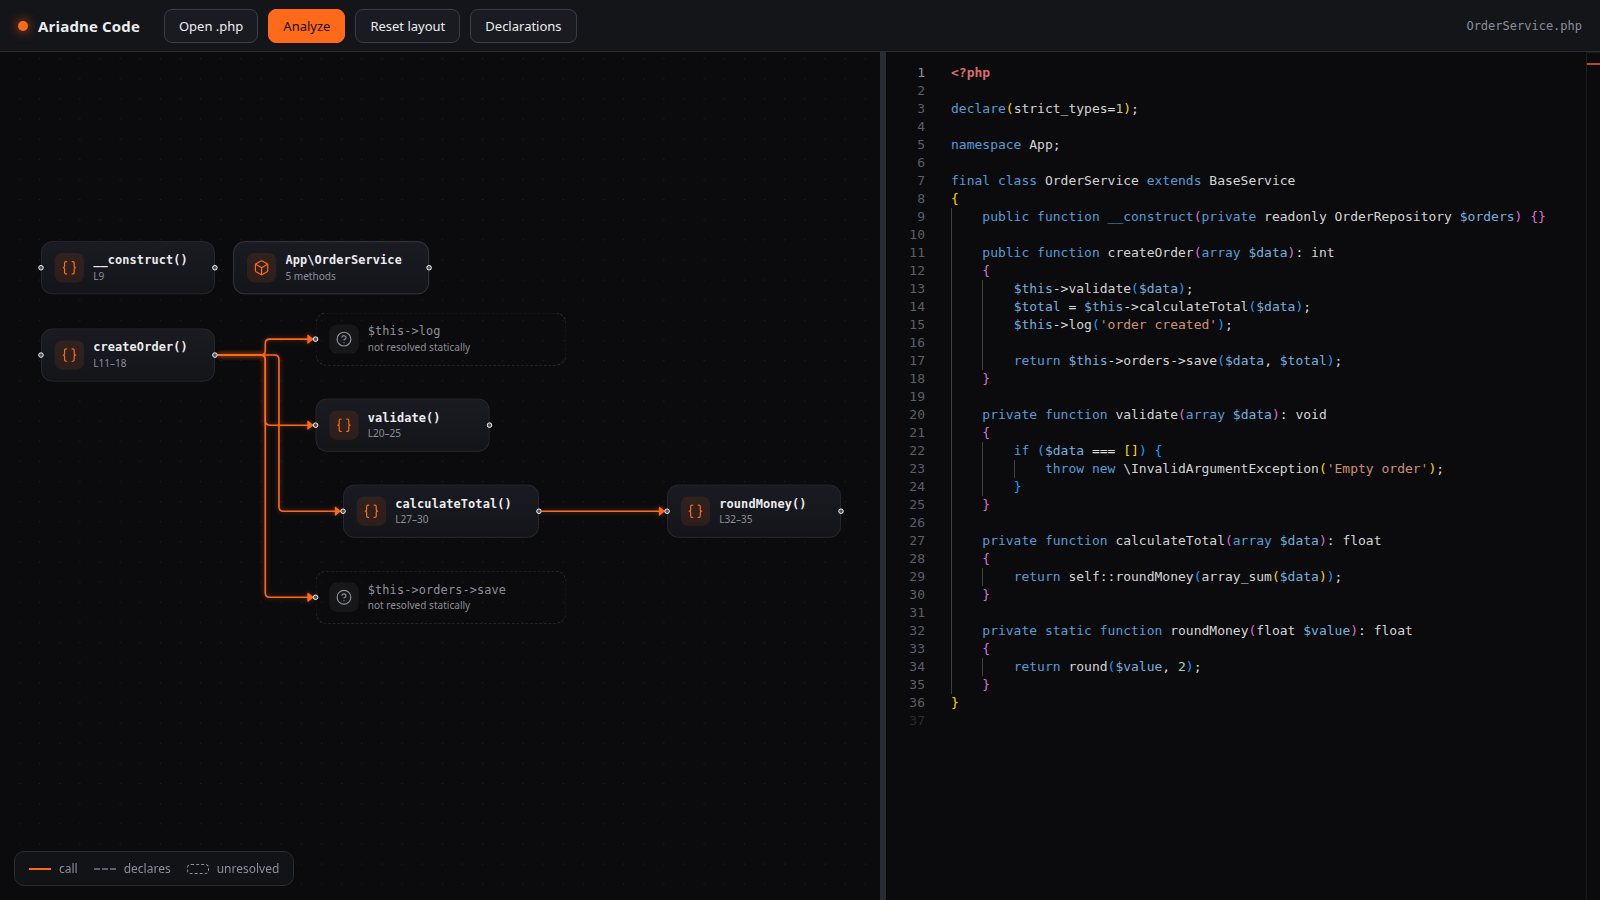
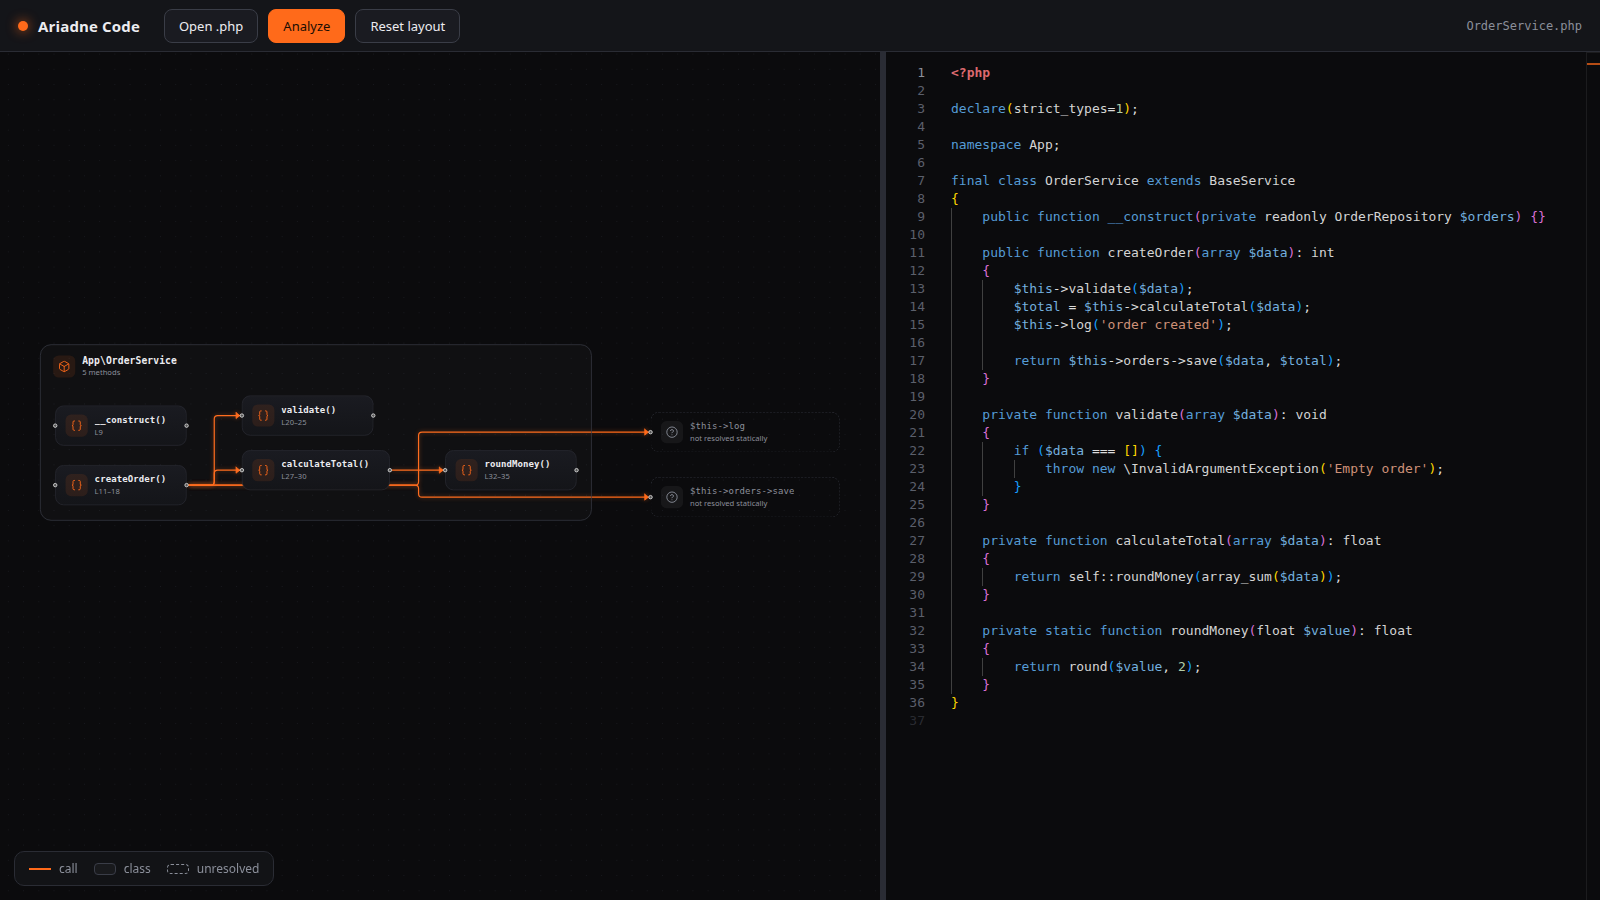
[update] show classes as containers that hold their methods

diff --git a/web/src/graph/layout.ts b/web/src/graph/layout.ts
@@ -1,5 +1,5 @@
 import type { Edge } from '@vue-flow/core'
-import ELK from 'elkjs/lib/elk.bundled.js'
+import ELK, { type ElkNode } from 'elkjs/lib/elk.bundled.js'
 import type { CodeNode } from './toFlow'
 
 const elk = new ELK()
@@ -9,6 +9,16 @@ const MIN_NODE_WIDTH = 190
 const CHAR_WIDTH = 8.5
 // Icon, gaps and padding around the title.
 const CHROME = 78
+// Room for the class header above its methods.
+const GROUP_PADDING = { top: 74, left: 22, bottom: 22, right: 22 }
+const GROUP_MIN_HEIGHT = 110
+
+interface Box {
+  x: number
+  y: number
+  width: number
+  height: number
+}
 
 function widthOf(node: CodeNode): number {
   const longest = Math.max(node.data.title.length, node.data.subtitle.length)
@@ -16,27 +26,79 @@ function widthOf(node: CodeNode): number {
   return Math.max(MIN_NODE_WIDTH, Math.round(longest * CHAR_WIDTH + CHROME))
 }
 
-/** Positions nodes left to right with ELK's layered algorithm. Returns new node objects. */
+function collect(node: ElkNode, into: Map<string, Box>): void {
+  for (const child of node.children ?? []) {
+    into.set(child.id, { x: child.x ?? 0, y: child.y ?? 0, width: child.width ?? 0, height: child.height ?? 0 })
+    collect(child, into)
+  }
+}
+
+/**
+ * Positions nodes left to right with ELK's layered algorithm. Nodes with a `parentNode` are laid out
+ * inside it, with coordinates relative to the parent, which is what Vue Flow expects.
+ * Returns new node objects.
+ */
 export async function layout(nodes: CodeNode[], edges: Edge[]): Promise<CodeNode[]> {
-  const widths = new Map(nodes.map((node) => [node.id, widthOf(node)]))
+  const kids = new Map<string, CodeNode[]>()
+  const roots: CodeNode[] = []
+
+  for (const node of nodes) {
+    if (node.parentNode === undefined) {
+      roots.push(node)
+    } else {
+      kids.set(node.parentNode, [...(kids.get(node.parentNode) ?? []), node])
+    }
+  }
+
+  const toElk = (node: CodeNode): ElkNode => {
+    const children = kids.get(node.id)
+
+    if (children === undefined) {
+      return { id: node.id, width: widthOf(node), height: NODE_HEIGHT }
+    }
+
+    return {
+      id: node.id,
+      layoutOptions: {
+        'elk.padding': `[top=${GROUP_PADDING.top},left=${GROUP_PADDING.left},bottom=${GROUP_PADDING.bottom},right=${GROUP_PADDING.right}]`,
+        'elk.spacing.nodeNode': '28',
+        'elk.layered.spacing.nodeNodeBetweenLayers': '80',
+        'elk.layered.spacing.edgeNodeBetweenLayers': '24',
+        'elk.nodeSize.constraints': 'MINIMUM_SIZE',
+        'elk.nodeSize.minimum': `(${widthOf(node) + GROUP_PADDING.left * 2}, ${GROUP_MIN_HEIGHT})`,
+      },
+      children: children.map(toElk),
+    }
+  }
 
   const result = await elk.layout({
     id: 'root',
     layoutOptions: {
       'elk.algorithm': 'layered',
       'elk.direction': 'RIGHT',
+      'elk.hierarchyHandling': 'INCLUDE_CHILDREN',
       'elk.spacing.nodeNode': '36',
-      'elk.layered.spacing.nodeNodeBetweenLayers': '110',
+      'elk.layered.spacing.nodeNodeBetweenLayers': '80',
+      'elk.layered.spacing.edgeNodeBetweenLayers': '24',
     },
-    children: nodes.map((node) => ({ id: node.id, width: widths.get(node.id) ?? MIN_NODE_WIDTH, height: NODE_HEIGHT })),
+    children: roots.map(toElk),
     edges: edges.map((edge) => ({ id: edge.id, sources: [edge.source], targets: [edge.target] })),
   })
 
-  const positions = new Map((result.children ?? []).map((child) => [child.id, { x: child.x ?? 0, y: child.y ?? 0 }]))
+  const boxes = new Map<string, Box>()
+  collect(result, boxes)
 
-  return nodes.map((node) => ({
-    ...node,
-    position: positions.get(node.id) ?? node.position,
-    style: { width: `${widths.get(node.id)}px`, height: `${NODE_HEIGHT}px` },
-  }))
+  return nodes.map((node) => {
+    const box = boxes.get(node.id)
+
+    if (box === undefined) {
+      return node
+    }
+
+    return {
+      ...node,
+      position: { x: box.x, y: box.y },
+      style: { width: `${Math.round(box.width)}px`, height: `${Math.round(box.height)}px` },
+    }
+  })
 }

diff --git a/web/src/App.vue b/web/src/App.vue
@@ -16,10 +16,7 @@ const code = ref(SAMPLE_CODE)
 const fileName = ref(SAMPLE_FILE)
 const graph = ref<Graph | null>(null)
 const nodes = shallowRef<Node[]>([])
-const allEdges = shallowRef<Edge[]>([])
-const showDeclares = ref(false)
-// Declarations are drawn only on request: they cut across the call flow that the layout follows.
-const edges = computed<Edge[]>(() => (showDeclares.value ? allEdges.value : allEdges.value.filter(isCall)))
+const edges = shallowRef<Edge[]>([])
 const selected = ref<{ id: string; reveal: boolean } | null>(null)
 const error = ref<string | null>(null)
 const loading = ref(false)
@@ -35,8 +32,6 @@ const highlight = computed<Highlight | null>(() => {
   return { start: node.lineStart, end: node.lineEnd, reveal: selected.value?.reveal ?? false }
 })
 
-const isCall = (edge: Edge): boolean => edge.class?.toString().includes('ariadne-edge-calls') ?? false
-
 async function run(): Promise<void> {
   loading.value = true
   error.value = null
@@ -45,8 +40,8 @@ async function run(): Promise<void> {
     const result = await analyze(code.value, fileName.value)
     const map = toClassMap(result)
 
-    nodes.value = await layout(map.nodes, map.edges.filter(isCall))
-    allEdges.value = map.edges
+    nodes.value = await layout(map.nodes, map.edges)
+    edges.value = map.edges
     graph.value = result
     selected.value = null
   } catch (failure) {
@@ -142,15 +137,6 @@ onMounted(run)
       <button type="button" class="button" :disabled="graph === null" @click="graphView?.resetLayout()">
         Reset layout
       </button>
-      <button
-        type="button"
-        class="button toggle"
-        :aria-pressed="showDeclares"
-        :disabled="graph === null"
-        @click="showDeclares = !showDeclares"
-      >
-        Declarations
-      </button>
       <span class="file">{{ fileName }}</span>
       <span v-if="error" class="error" role="alert">{{ error }}</span>
     </header>
@@ -243,11 +229,6 @@ onMounted(run)
 
 .button.primary:hover:not(:disabled) {
   background: #ff7d36;
-}
-
-.button.toggle[aria-pressed='true'] {
-  border-color: var(--accent);
-  background: rgba(var(--accent-rgb), 0.14);
 }
 
 .button:disabled {

diff --git a/web/src/graph/toFlow.ts b/web/src/graph/toFlow.ts
@@ -31,34 +31,42 @@ function describe(node: GraphNode, methodCount: number): CodeNodeData {
 }
 
 /**
- * The class map: classes, their methods and the calls between them.
+ * The class map: classes as containers holding their methods, and the calls between them.
+ * A method sits inside its class, so `contains` edges are not drawn.
  * Method flow nodes are left out; they get their own view.
  *
  * Repeated calls between the same two methods collapse into one edge labelled "×N".
  */
 export function toClassMap(graph: Graph): { nodes: CodeNode[]; edges: Edge[] } {
   const methodCounts = new Map<string, number>()
+  const classOf = new Map<string, string>()
 
   for (const edge of graph.edges) {
     if (edge.type === 'contains') {
       methodCounts.set(edge.from, (methodCounts.get(edge.from) ?? 0) + 1)
+      classOf.set(edge.to, edge.from)
     }
   }
 
   const nodes: CodeNode[] = graph.nodes
     .filter((node) => CLASS_MAP_TYPES.has(node.type))
-    .map((node) => ({
-      id: node.id,
-      type: 'code',
-      data: describe(node, methodCounts.get(node.id) ?? 0),
-      position: { x: 0, y: 0 },
-    }))
+    .map((node) => {
+      const parent = classOf.get(node.id)
+
+      return {
+        id: node.id,
+        type: node.type === 'class' ? 'class-group' : 'code',
+        data: describe(node, methodCounts.get(node.id) ?? 0),
+        position: { x: 0, y: 0 },
+        ...(parent === undefined ? {} : { parentNode: parent, extent: 'parent' as const }),
+      }
+    })
 
   const known = new Set(nodes.map((node) => node.id))
   const merged = new Map<string, { source: string; target: string; type: string; count: number }>()
 
   for (const edge of graph.edges) {
-    if (edge.type === 'flow' || !known.has(edge.from) || !known.has(edge.to)) {
+    if (edge.type !== 'calls' || !known.has(edge.from) || !known.has(edge.to)) {
       continue
     }
 

diff --git a/web/src/components/ClassGroup.vue b/web/src/components/ClassGroup.vue
@@ -1,0 +1,71 @@
+<script setup lang="ts">
+import { Box } from 'lucide-vue-next'
+
+import type { CodeNodeData } from '../graph/toFlow'
+
+defineProps<{ data: CodeNodeData }>()
+</script>
+
+<template>
+  <div class="class-group">
+    <header class="class-header">
+      <span class="icon"><Box :size="18" :stroke-width="1.75" /></span>
+      <span class="text">
+        <span class="title">{{ data.title }}</span>
+        <span class="subtitle">{{ data.subtitle }}</span>
+      </span>
+    </header>
+  </div>
+</template>
+
+<style>
+.class-group {
+  width: 100%;
+  height: 100%;
+  border: 1px solid var(--border-strong);
+  border-radius: 16px;
+  background: rgba(255, 255, 255, 0.025);
+  transition:
+    border-color 0.15s,
+    box-shadow 0.15s;
+}
+
+.class-header {
+  display: flex;
+  align-items: center;
+  gap: 10px;
+  padding: 14px 18px;
+}
+
+.class-header .icon {
+  display: grid;
+  place-items: center;
+  width: 32px;
+  height: 32px;
+  border-radius: 8px;
+  background: rgba(var(--accent-rgb), 0.1);
+  color: var(--accent);
+}
+
+.class-header .text {
+  display: flex;
+  flex-direction: column;
+  min-width: 0;
+}
+
+.class-header .title {
+  font: 600 14px/1.3 var(--font-code);
+}
+
+.class-header .subtitle {
+  color: var(--muted);
+  font: 11px/1.4 var(--font-ui);
+}
+
+.vue-flow__node.is-selected .class-group {
+  border-color: var(--accent);
+  box-shadow:
+    0 0 0 1px var(--accent),
+    0 0 22px rgba(var(--accent-rgb), 0.3);
+}
+</style>

diff --git a/web/src/components/GraphView.vue b/web/src/components/GraphView.vue
@@ -5,6 +5,7 @@ import { shallowRef, watch } from 'vue'
 
 import { applyPositions, clearPositions, layoutKey, loadPositions, savePositions } from '../graph/positions'
 import { theme } from '../theme'
+import ClassGroup from './ClassGroup.vue'
 import CodeNode from './CodeNode.vue'
 import GraphLegend from './GraphLegend.vue'
 
@@ -87,6 +88,9 @@ defineExpose({ resetLayout })
       :nodes-connectable="false"
       :elements-selectable="false"
     >
+      <template #node-class-group="nodeProps">
+        <ClassGroup :data="nodeProps.data" />
+      </template>
       <template #node-code="nodeProps">
         <CodeNode :data="nodeProps.data" />
       </template>
@@ -110,11 +114,6 @@ defineExpose({ resetLayout })
 .ariadne-edge-calls .vue-flow__edge-path {
   stroke: var(--accent);
   filter: drop-shadow(0 0 3px rgba(var(--accent-rgb), 0.45));
-}
-
-.ariadne-edge-contains .vue-flow__edge-path {
-  stroke: var(--dim);
-  stroke-dasharray: 5 5;
 }
 
 .vue-flow__edge-textbg {

diff --git a/web/src/graph/graph.test.ts b/web/src/graph/graph.test.ts
@@ -61,6 +61,17 @@ describe('toClassMap', () => {
     expect(byId.get('unresolved:$x->go')?.kind).toBe('unresolved')
   })
 
+  it('nests methods inside their class instead of drawing containment edges', () => {
+    const { nodes, edges } = toClassMap(graph)
+    const byId = new Map(nodes.map((n) => [n.id, n]))
+
+    expect(byId.get('method:A::a')).toMatchObject({ parentNode: 'class:A', extent: 'parent', type: 'code' })
+    expect(byId.get('class:A')).toMatchObject({ type: 'class-group' })
+    expect(byId.get('class:A')?.parentNode).toBeUndefined()
+    expect(byId.get('unresolved:$x->go')?.parentNode).toBeUndefined()
+    expect(edges.every((e) => e.class?.toString().includes('ariadne-edge-calls'))).toBe(true)
+  })
+
   it('collapses repeated calls into one edge with a count', () => {
     const { edges } = toClassMap(graph)
     const call = edges.find((e) => e.source === 'method:A::a' && e.target === 'method:A::b')

diff --git a/web/src/components/GraphLegend.vue b/web/src/components/GraphLegend.vue
@@ -1,7 +1,7 @@
 <template>
   <ul class="legend" aria-label="Legend">
     <li><span class="swatch call" />call</li>
-    <li><span class="swatch contains" />declares</li>
+    <li><span class="swatch group" />class</li>
     <li><span class="swatch unresolved" />unresolved</li>
   </ul>
 </template>
@@ -37,8 +37,11 @@
   border-top: 2px solid var(--accent);
 }
 
-.swatch.contains {
-  border-top: 2px dashed var(--dim);
+.swatch.group {
+  height: 12px;
+  border: 1.5px solid var(--border-strong);
+  border-radius: 4px;
+  background: rgba(255, 255, 255, 0.03);
 }
 
 .swatch.unresolved {

diff --git a/web/src/graph/positions.ts b/web/src/graph/positions.ts
@@ -2,7 +2,8 @@ import type { Node } from '@vue-flow/core'
 
 export type Positions = Record<string, { x: number; y: number }>
 
-const PREFIX = 'ariadne:layout:'
+// v2: classes became containers, so positions saved by the flat layout no longer fit.
+const PREFIX = 'ariadne:layout:v2:'
 
 export const layoutKey = (fileName: string): string => PREFIX + fileName
 
